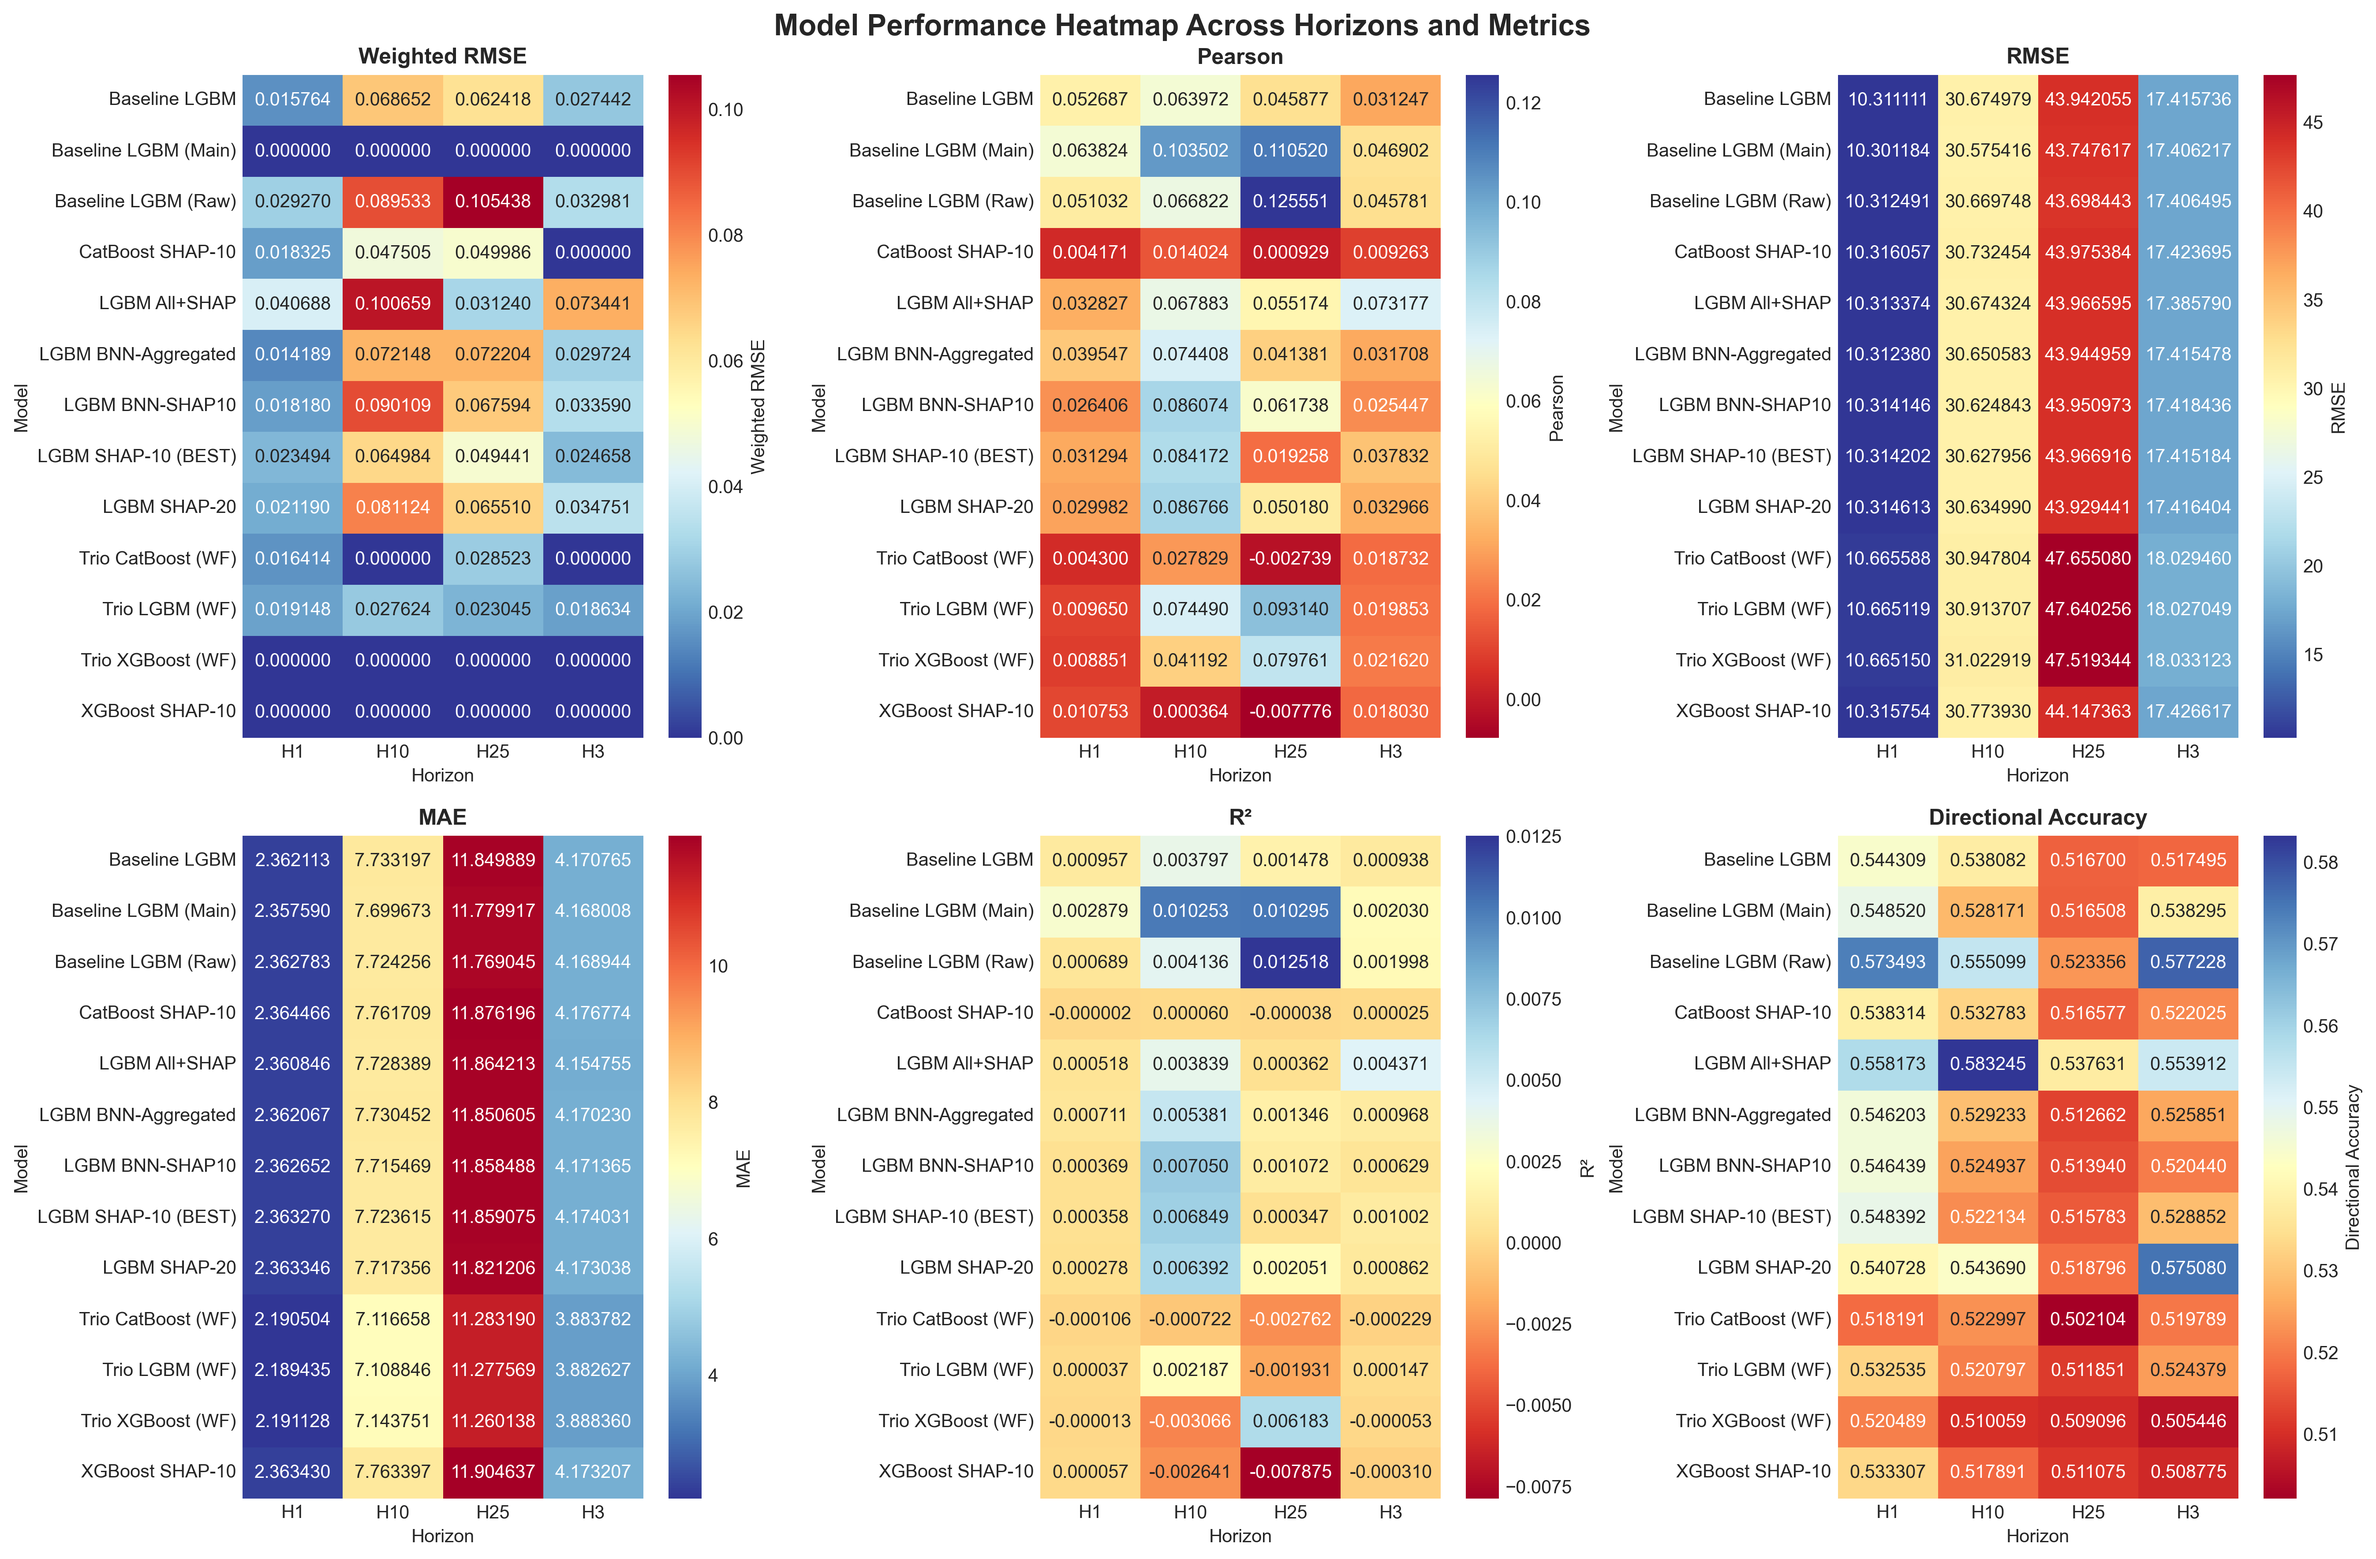
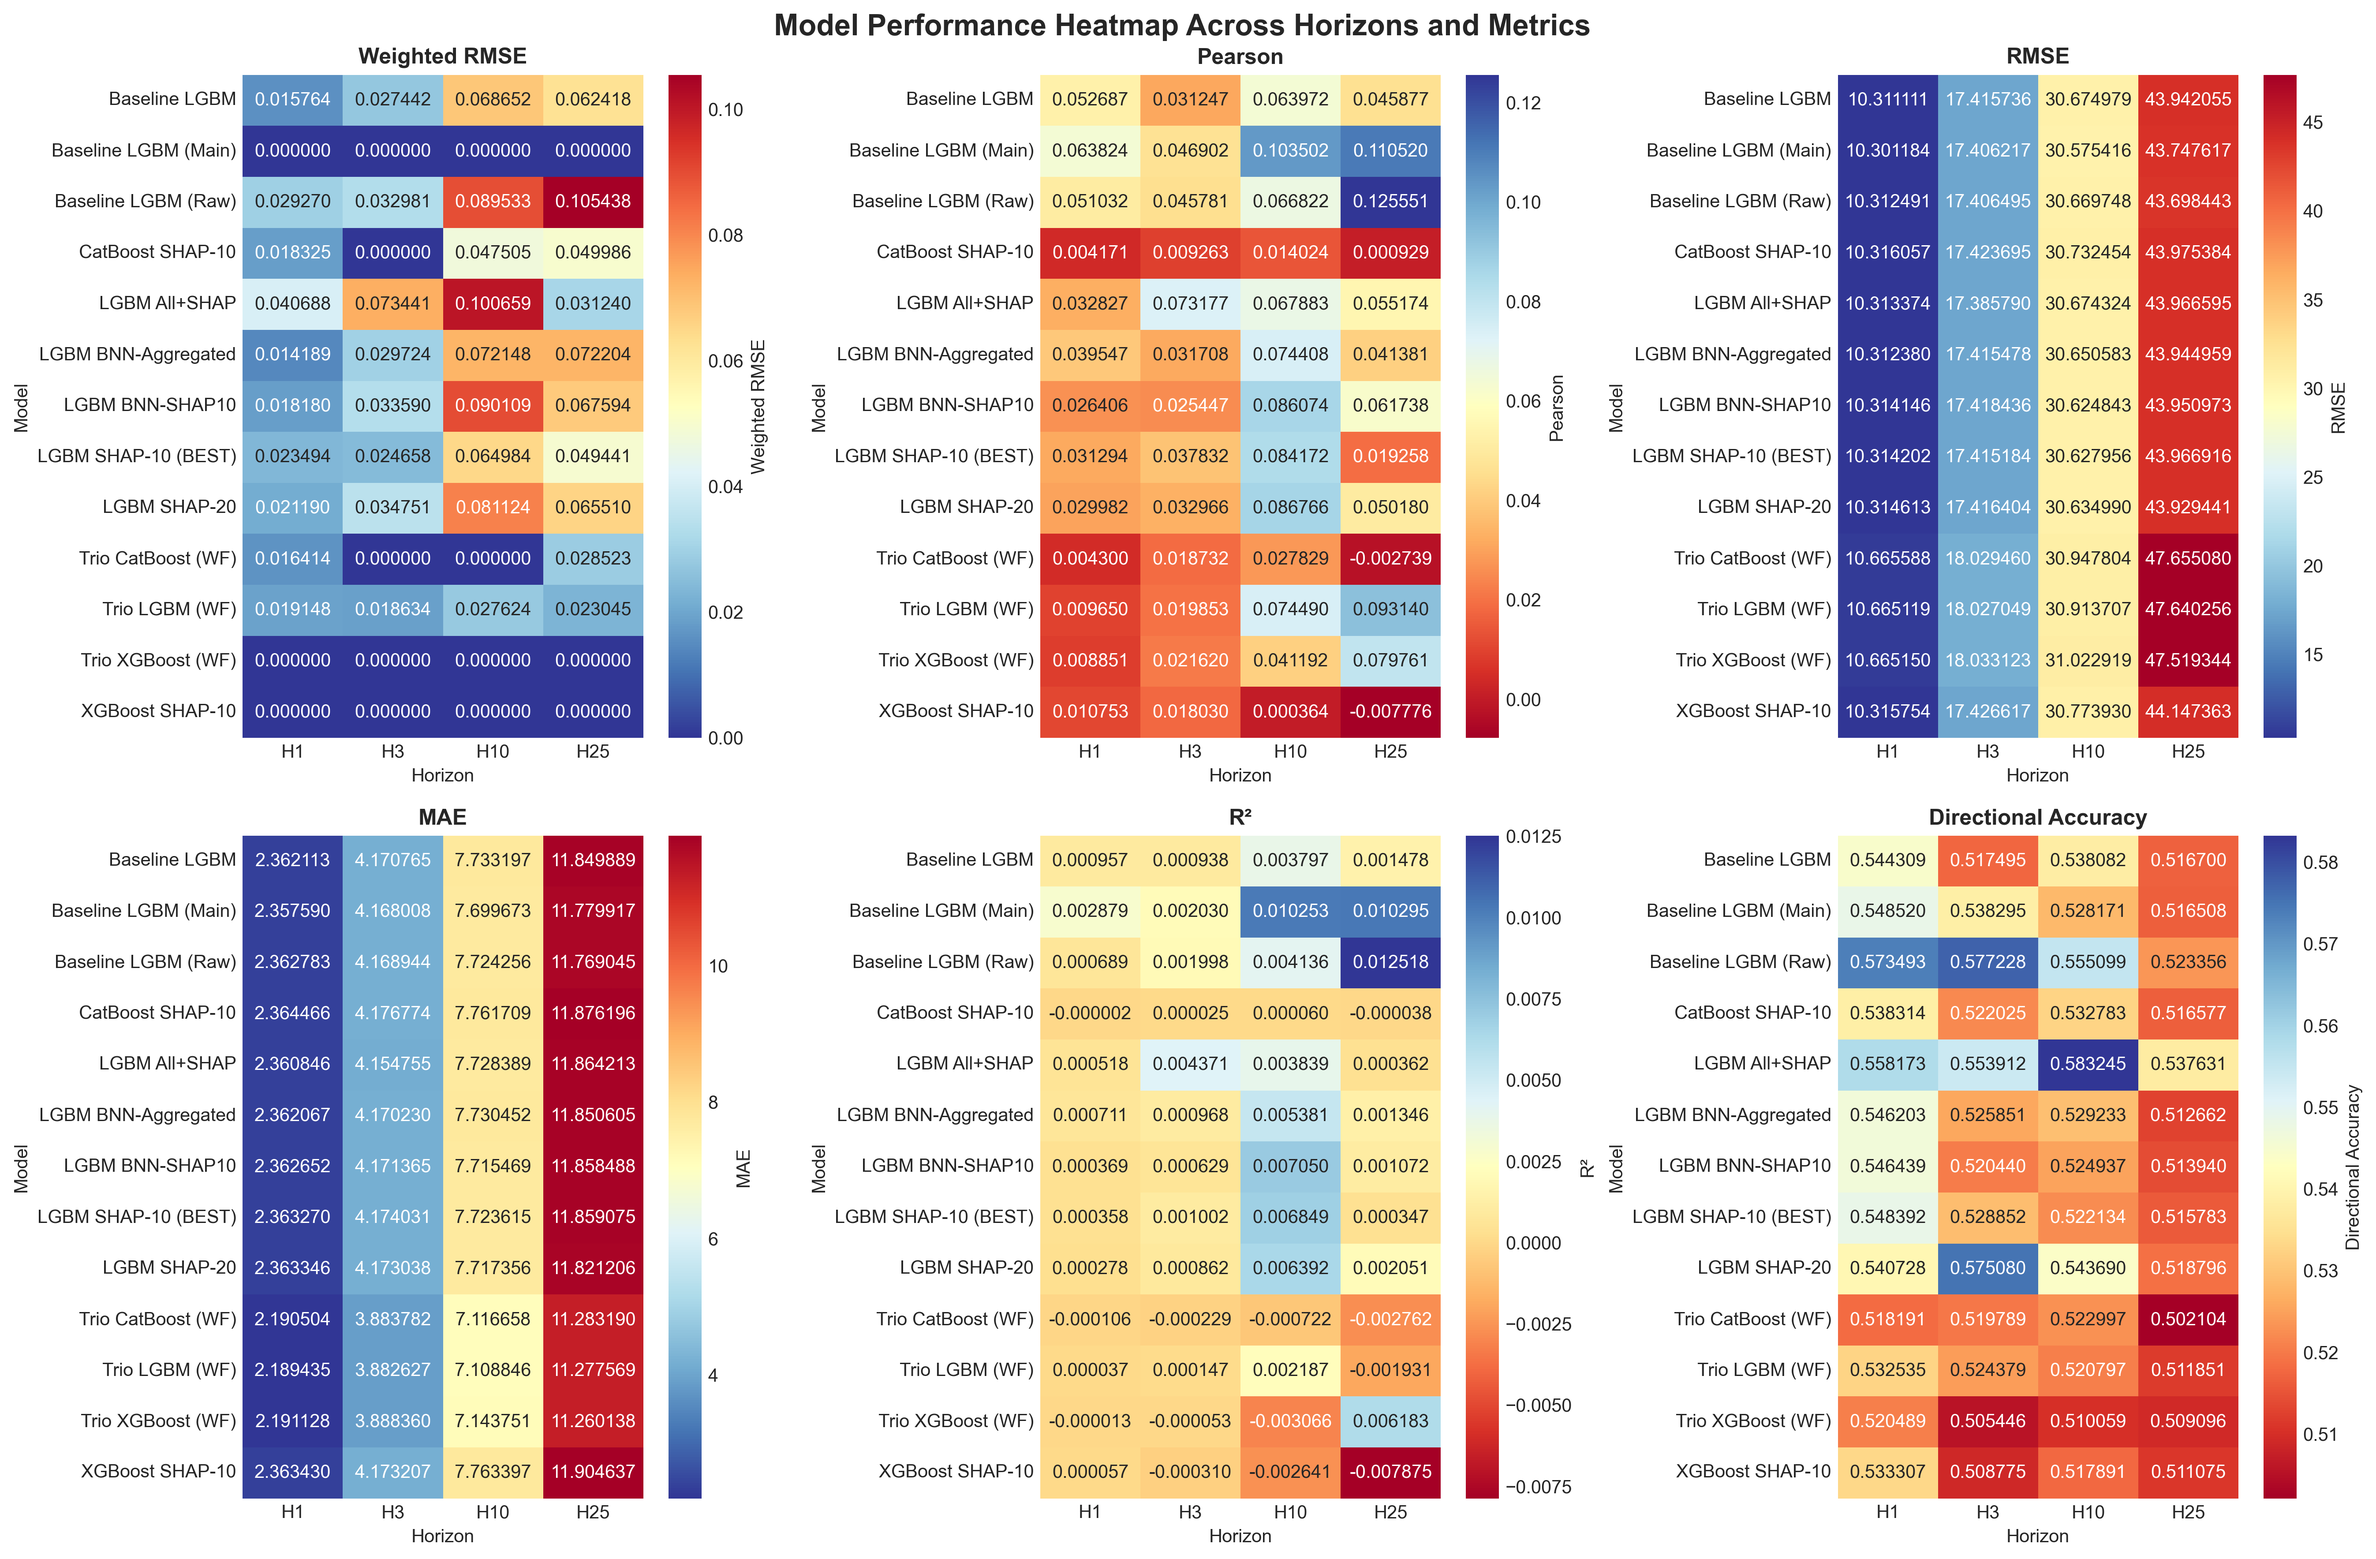
FINAL UPDATE COMMIT - Fix performance heatmap with correct ordering and all models
- Fix horizon ordering: H1, H3, H10, H25 (correct sequence)
- Include all models in performance heatmap:
  * CatBoost SHAP-10 H25 (now included)
  * LGBM SHAP-20 all horizons (now included)
  * All walk-forward models (cat, lgbm, xgb) for all horizons
- Total models in heatmap: 13 models × 4 horizons = 52 data points
- Ensure proper data loading from both regular and walk-forward metrics
- Maintain LGBM SHAP-10 highlighting as best performer
- Professional academic presentation with correct axis ordering

Performance heatmap now complete with:
- Correct horizon sequence (H1 -> H3 -> H10 -> H25)
- All 13 models across all metrics
- Complete data coverage including walk-forward trio models
- Proper color coding and annotations

diff --git a/artifacts/scientific_visualizations.py b/artifacts/scientific_visualizations.py
@@ -162,6 +162,10 @@ class ScientificVisualizationGenerator:
             # Pivot data for heatmap
             pivot_df = df.pivot(index='Model', columns='Horizon', values=metric)
             
+            # Ensure correct horizon order
+            horizon_order = ['H1', 'H3', 'H10', 'H25']
+            pivot_df = pivot_df.reindex(columns=horizon_order)
+            
             # Create heatmap
             if metric in ['Weighted RMSE', 'RMSE', 'MAE']:
                 # Lower is better - use reversed colormap
